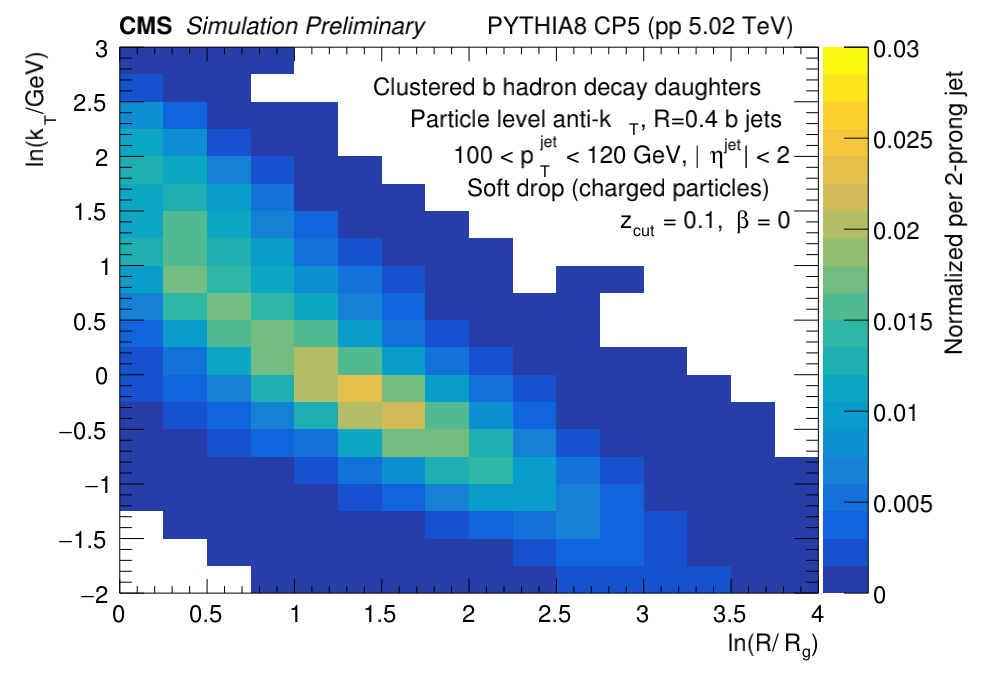
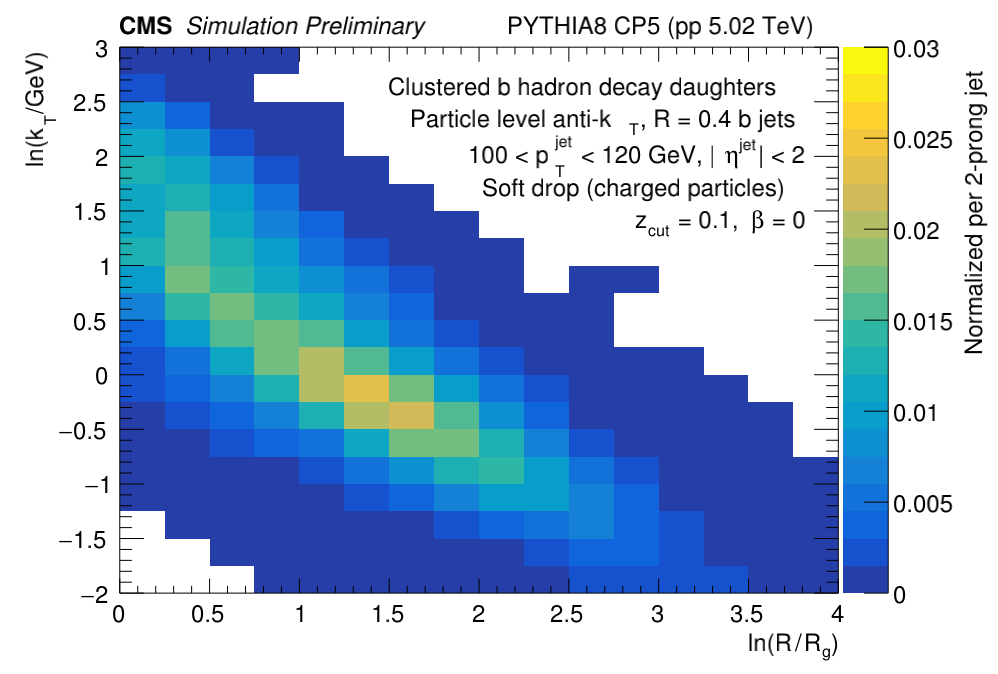
update so the text doesnt overlap

diff --git a/myMacros/C106X/draw_substructure.C b/myMacros/C106X/draw_substructure.C
@@ -1,4 +1,5 @@
 #include "draw_utils.h"
+#include "cms_palette.h"
 
 void draw_info()
 {
@@ -12,7 +13,7 @@ void draw_info()
     lumi->SetNDC();
     lumi->SetTextSize(28);
     lumi->SetTextAlign(32);
-    lumi->DrawLatex(0.82, 0.96, "PYTHIA8 CP5 (pp 5.02 TeV)");
+    lumi->DrawLatex(0.84, 0.96, "PYTHIA8 CP5 (pp 5.02 TeV)");
 }
 
 void draw_substructure(TString observable="rg")
@@ -27,10 +28,10 @@ void draw_substructure(TString observable="rg")
     gStyle->SetPalette(57);
 
     TString xlabel;
-    if (observable=="rg") xlabel = "ln(R/^{}R_{g})";
+    if (observable=="rg") xlabel = "ln(R^{}/^{}R_{g})";
     else if (observable=="zg") xlabel = "z_{g}";
 
-    TString label = "noAggr_withPNET";
+    TString label = "aggrGenNoReco_withPNET";
     TString sample = "bjet";
     TString fin_name = "./histos/" + sample + "_" + label + "_substructure.root"; 
     std::cout << "fin: " << fin_name << std::endl;
@@ -49,7 +50,7 @@ void draw_substructure(TString observable="rg")
     hSingleB_gen->GetYaxis()->SetRangeUser(-2., 3.);
 
     TCanvas *c_SingleB_gen = new TCanvas("c_SingleB_gen", "Truth level lund plane no tag", 1000, 700);
-    c_SingleB_gen->SetRightMargin(0.18);
+    c_SingleB_gen->SetRightMargin(0.16);
     c_SingleB_gen->SetLeftMargin(0.12);
     c_SingleB_gen->SetTopMargin(0.07);
     c_SingleB_gen->SetBottomMargin(0.12);
@@ -63,15 +64,15 @@ void draw_substructure(TString observable="rg")
     jet_info->SetNDC();
     jet_info->SetTextSize(text_size);
     jet_info->SetTextAlign(32);
-    jet_info->DrawLatex(0.795, 0.82, "Particle level anti-k_{T}, R=0.4 b jets");
-    jet_info->DrawLatex(0.795, 0.77, "100 < p_{T}^{jet} < 120 GeV, |#eta^{jet}| < 2");
-    jet_info->DrawLatex(0.795, 0.72, "Soft drop (charged particles)");
-    jet_info->DrawLatex(0.795, 0.67, "z_{cut} = 0.1, #beta = 0");
+    jet_info->DrawLatex(0.81, 0.82, "Particle level anti-k_{T}, R = 0.4 b jets");
+    jet_info->DrawLatex(0.81, 0.77, "100 < p_{T}^{jet} < 120 GeV, |#eta^{jet}| < 2");
+    jet_info->DrawLatex(0.81, 0.72, "Soft drop (charged particles)");
+    jet_info->DrawLatex(0.81, 0.67, "z_{cut} = 0.1, #beta = 0");
     if (label.Contains("aggr")) {
-        auto txt1 = jet_info->DrawLatex(0.795, 0.87, "Clustered b hadron decay daughters");
+        auto txt1 = jet_info->DrawLatex(0.81, 0.87, "Clustered b hadron decay daughters");
         // txt1->SetTextColor(kWhite);
     } else {
-        auto txt1 = jet_info->DrawLatex(0.795, 0.87, "Unclustered b hadron decay daughters");
+        auto txt1 = jet_info->DrawLatex(0.81, 0.87, "Unclustered b hadron decay daughters");
         // txt1->SetTextColor(kWhite);
     }
 
@@ -96,45 +97,67 @@ void draw_substructure(TString observable="rg")
     c_SingleB_gen->Print("plots_an/"+sample+"_"+label+"_"+observable+"_vs_kt.png");
 
     // Draw gen vs reco 
-    // TH2F *hSingleBtag_reco_vs_gen = (TH2F *) fin->Get("hSingleBtag_"+observable+"_reco_vs_gen");
-    // int nbins_x = hSingleBtag_reco_vs_gen->GetNbinsX();
-    // int nbins_y = hSingleBtag_reco_vs_gen->GetNbinsY();
-    // for (int iy=1; iy<=nbins_y; iy++) {
-    //     double integral = hSingleBtag_reco_vs_gen->Integral(1, nbins_x, iy, iy);
-    //     for (int ix=1; ix<=nbins_x; ix++) {
-    //         double content = hSingleBtag_reco_vs_gen->GetBinContent(ix, iy);
-    //         hSingleBtag_reco_vs_gen->SetBinContent(ix, iy, content/integral);
-    //     }
-    // }
-    // hSingleBtag_reco_vs_gen->GetXaxis()->SetTitle("Detector level "+xlabel);
-    // hSingleBtag_reco_vs_gen->GetYaxis()->SetTitle("Particle level "+xlabel);
-    // hSingleBtag_reco_vs_gen->GetYaxis()->SetTitleOffset(1.2);
-    // hSingleBtag_reco_vs_gen->GetZaxis()->SetTitle("normalized per particle level bin");
-    // hSingleBtag_reco_vs_gen->GetZaxis()->SetTitleOffset(1.5);
-    // hSingleBtag_reco_vs_gen->GetZaxis()->SetRangeUser(0.,1.);
+    TH2F *hSingleBtag_reco_vs_gen = (TH2F *) fin->Get("hSingleBtag_"+observable+"_reco_vs_gen");
+    int nbins_x = hSingleBtag_reco_vs_gen->GetNbinsX();
+    int nbins_y = hSingleBtag_reco_vs_gen->GetNbinsY();
+    for (int iy=1; iy<=nbins_y; iy++) {
+        double integral = hSingleBtag_reco_vs_gen->Integral(1, nbins_x, iy, iy);
+        for (int ix=1; ix<=nbins_x; ix++) {
+            double content = hSingleBtag_reco_vs_gen->GetBinContent(ix, iy);
+            hSingleBtag_reco_vs_gen->SetBinContent(ix, iy, content/integral);
+        }
+    }
+    hSingleBtag_reco_vs_gen->GetXaxis()->SetTitle("Detector level^{} "+xlabel);
+    hSingleBtag_reco_vs_gen->GetYaxis()->SetTitle("Particle level^{} "+xlabel);
+    hSingleBtag_reco_vs_gen->GetYaxis()->SetTitleOffset(1.5);
+    hSingleBtag_reco_vs_gen->GetZaxis()->SetTitle("Migration probability");
+    hSingleBtag_reco_vs_gen->GetZaxis()->SetTitleOffset(1.3);
+    hSingleBtag_reco_vs_gen->GetZaxis()->SetRangeUser(0.,1.);
+    hSingleBtag_reco_vs_gen->GetXaxis()->SetRangeUser(0.,3.);
+    hSingleBtag_reco_vs_gen->GetYaxis()->SetRangeUser(0.,3.);
 
-    // TCanvas *c_SingleBtag_reco_vs_gen = new TCanvas("c_SingleBtag_reco_vs_gen", "x=reco,y=gen", 800, 600);
-    // c_SingleBtag_reco_vs_gen->SetRightMargin(0.2);
-    // hSingleBtag_reco_vs_gen->Draw("colz");
+    TCanvas *c_SingleBtag_reco_vs_gen = new TCanvas("c_SingleBtag_reco_vs_gen", "x=reco,y=gen", 1000, 700);
+    c_SingleBtag_reco_vs_gen->SetRightMargin(0.18);
+    c_SingleBtag_reco_vs_gen->SetLeftMargin(0.12);
+    c_SingleBtag_reco_vs_gen->SetTopMargin(0.07);
+    c_SingleBtag_reco_vs_gen->SetBottomMargin(0.12);
+    hSingleBtag_reco_vs_gen->Draw("colz");
 
     // TLatex *jet_info2 = new TLatex;
     // jet_info2->SetNDC();
     // jet_info2->SetTextSize(text_size);
-    // jet_info2->DrawLatex(0.63, 0.35, "Particle level");
-    // jet_info2->DrawLatex(0.39, 0.3, "anti-k_{T}, R=0.4 b-tagged single b jets");
-    // jet_info2->DrawLatex(0.45, 0.25, "100 < p_{T}^{jet} < 120 GeV, |#eta^{jet}| < 2");
-    // jet_info2->DrawLatex(0.53, 0.2, "Charged particles only");
-    // auto txt11 = jet_info2->DrawLatex(0.2, 0.8, "b hadron decay products");
-    // txt11->SetTextColor(kRed);
-    // TString bdecay2;
-    // if (label.Contains("aggrTMVA")) bdecay2 = "aggregated for both axes";
-    // else if (label.Contains("aggrGenNoReco")) bdecay2 = "aggregated for particle level";
-    // else bdecay2 = "present for both axes";
-    // auto txt22 = jet_info2->DrawLatex(0.2, 0.75, bdecay2);
-    // txt22->SetTextColor(kRed);
-    // jet_info2->Draw();
+    // jet_info2->SetTextColor(kBlack);
+    // jet_info2->SetTextAlign(12);
+    // // jet_info2->SetTextFont(63);
+    // jet_info2->DrawLatex(0.15, 0.85, "anti-k_{T}, R = 0.4 b-tagged b jets");
+    // jet_info2->DrawLatex(0.15, 0.79, "100 < p_{T}^{jet} < 120 GeV, |#eta^{jet}| < 2");
+    // jet_info2->DrawLatex(0.15, 0.73, "Soft drop (charged particles)");
+    // jet_info2->DrawLatex(0.15, 0.67, "z_{cut} = 0.1, #beta = 0, k_{T} > 1 GeV");
 
-    // draw_info();
+    TLatex *jet_info4 = new TLatex;
+    jet_info4->SetNDC();
+    jet_info4->SetTextSize(text_size);
+    jet_info4->SetTextColor(kWhite);
+    jet_info4->SetTextAlign(12);
+    jet_info4->SetTextFont(43);
+    jet_info4->DrawLatex(0.15, 0.85, "anti-k_{T}, R = 0.4 b-tagged b jets");
+    jet_info4->DrawLatex(0.15, 0.79, "100 < p_{T}^{jet} < 120 GeV, |#eta^{jet}| < 2");
+    jet_info4->DrawLatex(0.15, 0.73, "Soft drop (charged particles)");
+    jet_info4->DrawLatex(0.15, 0.67, "z_{cut} = 0.1, #beta = 0, k_{T} > 1 GeV");
+
+    TLatex *jet_info3 = new TLatex;
+    jet_info3->SetNDC();
+    jet_info3->SetTextSize(text_size);
+    jet_info3->SetTextColor(kWhite);
+    jet_info3->SetTextAlign(32);
+    jet_info3->DrawLatex(0.8, 0.25, "b hadron decay daughters");
+    TString bdecay2;
+    if (label.Contains("aggrTMVA")) bdecay2 = "clustered on both levels";
+    else if (label.Contains("aggrGenNoReco")) bdecay2 = "clustered only on particle level";
+    else bdecay2 = "not clustered on both levels";
+    jet_info3->DrawLatex(0.8, 0.2, bdecay2);
+
+    draw_info();
 
     // c_SingleBtag_reco_vs_gen->Print("plots_an/"+sample+"_"+label+"_"+observable+"_reco_vs_gen.pdf");
     // c_SingleBtag_reco_vs_gen->Print("plots_an/"+sample+"_"+label+"_"+observable+"_reco_vs_gen.png");
